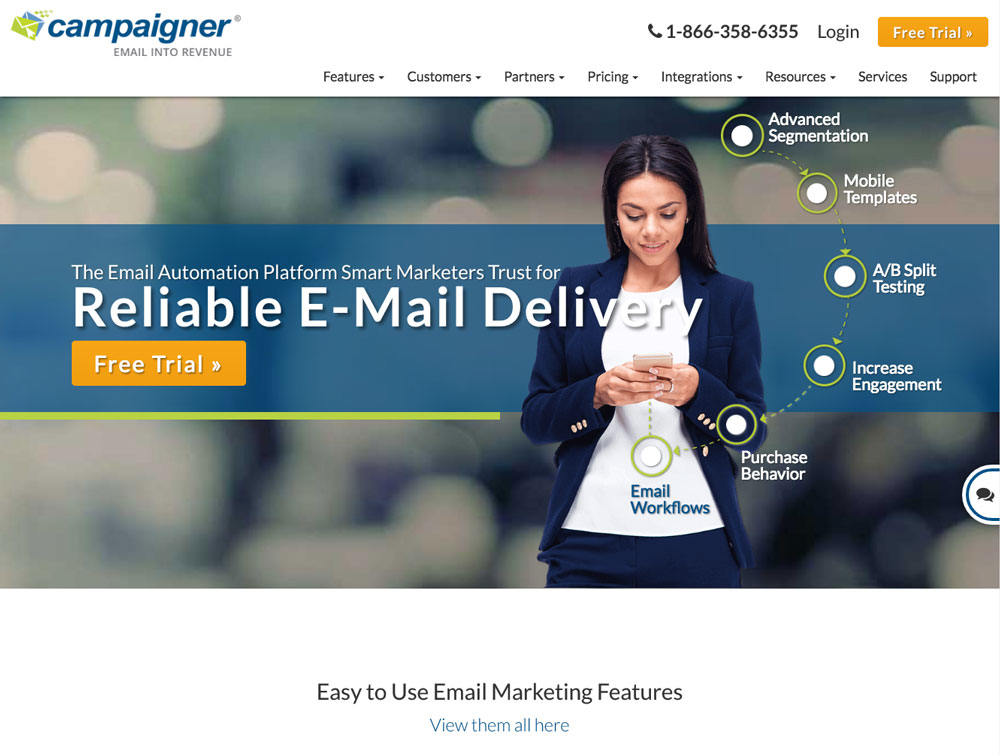
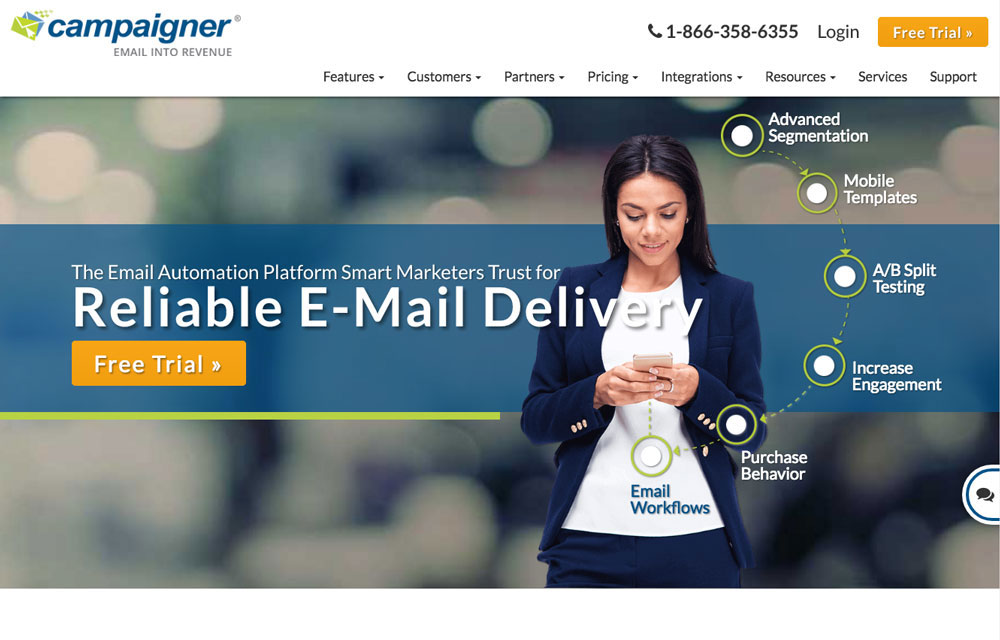
optimized page

diff --git a/css/layout.css b/css/layout.css
@@ -406,36 +406,6 @@ Utilities
   color: inherit;
   flex-shrink: 0;
 }
-/*viewport height*/
-.vh100 {
-  height: 100vh;
-}
-.vh50 {
-  height: 50vh;
-}
-@media only screen and (max-width: 768px) {
-  .vh50 {
-    height: auto;
-  }
-}
-@media only screen and (min-width: 1500px) {
-  .vh50 {
-    height: auto;
-  }
-}
-.vh30 {
-  height: 30vh;
-}
-@media only screen and (max-width: 768px) {
-  .vh30 {
-    height: auto;
-  }
-}
-@media only screen and (min-width: 1500px) {
-  .vh30 {
-    height: auto;
-  }
-}
 /* -----------
 cta
 -------------- */
@@ -827,6 +797,34 @@ pano - transparent overlay on mobile
 .pano .logo {
   display: none;
 }
+.pano .vh30 {
+  height: auto;
+  -webkit-transition: 0.25s;
+  -moz-transition: 0.25s;
+  -o-transition: 0.25s;
+  -ms-transition: 0.25s;
+  transition: 0.25s;
+}
+@media only screen and (min-width: 992px) and (max-width: 1199px), only screen and (min-width: 1200px)and (max-width: 1280px), only screen and (min-width: 1280px) {
+  .pano .vh30 {
+    height: 20vh;
+    -webkit-transition: 0.25s;
+    -moz-transition: 0.25s;
+    -o-transition: 0.25s;
+    -ms-transition: 0.25s;
+    transition: 0.25s;
+  }
+}
+@media only screen and (min-width: 1500px) {
+  .pano .vh30 {
+    height: 10vh;
+    -webkit-transition: 0.25s;
+    -moz-transition: 0.25s;
+    -o-transition: 0.25s;
+    -ms-transition: 0.25s;
+    transition: 0.25s;
+  }
+}
 .pano.affix {
   width: 100%;
   padding-top: 10px;
@@ -866,11 +864,16 @@ pano - transparent overlay on mobile
   }
 }
 .offset {
-  padding-top: 280px;
+  padding-top: 130px;
 }
 @media only screen and (max-width: 768px) {
   .offset {
     padding-top: 100px;
+  }
+}
+@media only screen and (min-width: 992px) and (max-width: 1199px), only screen and (min-width: 1200px)and (max-width: 1280px), only screen and (min-width: 1280px) {
+  .offset {
+    padding-top: 280px;
   }
 }
 @media only screen and (min-width: 1500px) {

diff --git a/css/global.less b/css/global.less
@@ -374,29 +374,6 @@ Utilities
 }
 
 
-/*viewport height*/
-.vh100{
-	height:100vh
-}
-.vh50{
-	height:50vh;
-	@media @mobile{
-		height:auto;
-	}
-	@media @desktop-wide{
-		height:auto;
-	}
-}
-.vh30{
-	height:30vh;
-	@media @mobile{
-		height:auto;
-	}
-	@media @desktop-wide{
-		height:auto;
-	}
-}
-
 
 /* -----------
 cta
@@ -754,6 +731,20 @@ pano - transparent overlay on mobile
 		display:none;
 	
 	}
+	.vh30{
+		height:auto;
+		.transition(@transition-time);
+		@media @desktop-md, @desktop-lg, @desktop-xl{
+			height:20vh;
+			.transition(@transition-time);
+		}
+		@media @desktop-wide{
+			height:10vh;
+			.transition(@transition-time);
+		}
+	}
+
+	
 	&.affix{
 		width:100%;
 		padding-top:10px;
@@ -786,9 +777,12 @@ pano - transparent overlay on mobile
 	
 }
 .offset{
-	padding-top:280px;
+	padding-top:130px;
 	@media @mobile{
 		padding-top:100px;
+	}
+	@media @desktop-md, @desktop-lg, @desktop-xl{
+		padding-top:280px;
 	}
 	@media @desktop-wide{
 		padding-top:150px;

diff --git a/new-home.html b/new-home.html
@@ -232,8 +232,8 @@
 					<ul class="flex-parent">
 						<li class="flex-child">
 							<a href="#0" data-type="project-1">
-								<figure class="padding-20">
-									<img src="images/logo-efax-enterprise.jpg" alt="eFax Enterprise" class="center-block">
+								<figure class="padding-20 flex">
+									<img src="images/logo-efax-enterprise.jpg" alt="eFax Enterprise" class="center-block align-center">
 									<div class="img-overlay"><span>View Project</span></div>
 								</figure>
 			
